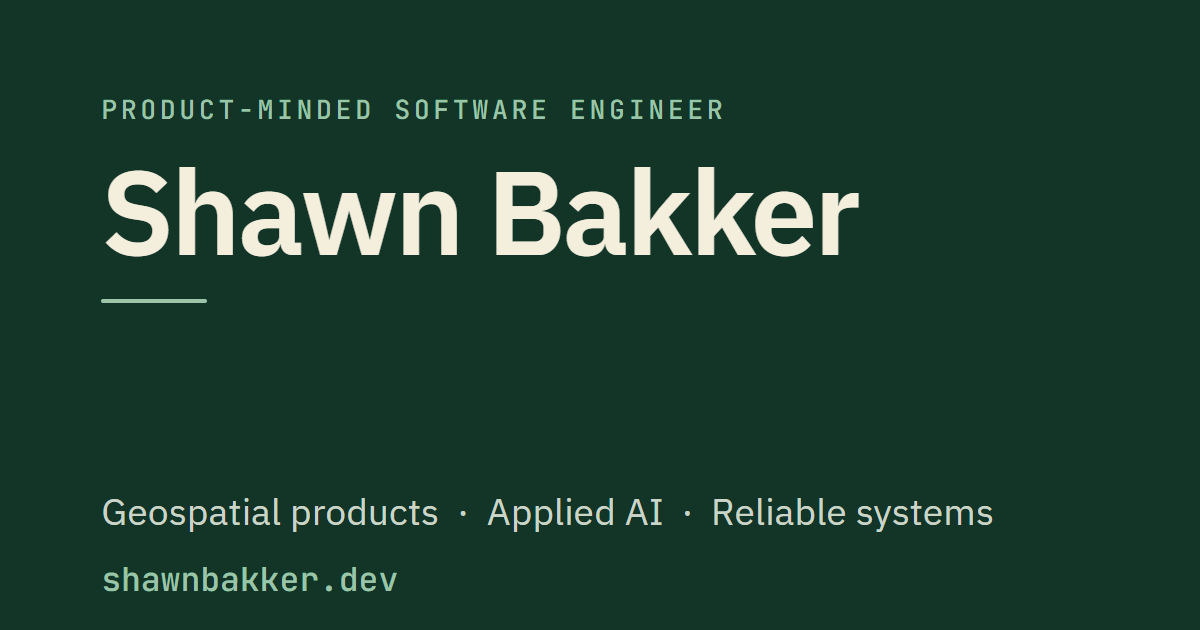
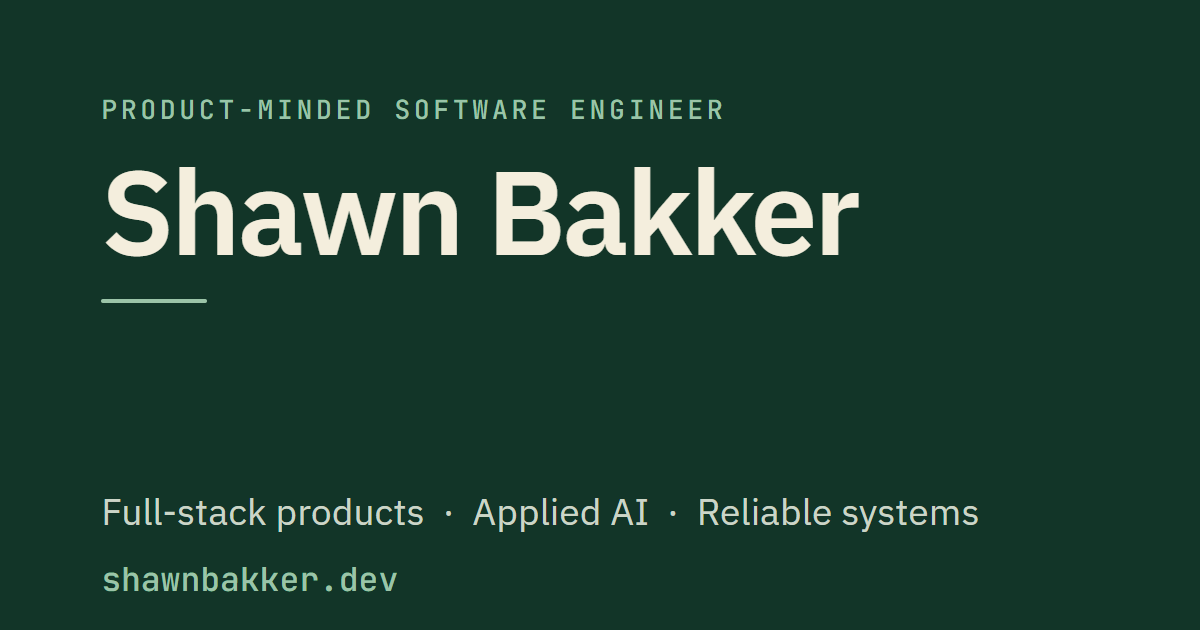
Thumbnail: generalize framing (drop "geospatial") (#2)
Keep the social share preview general to full-stack / SWE rather than
domain-specific. Regenerate the OG card tagline "Geospatial products ·
Applied AI · Reliable systems" -> "Full-stack products · Applied AI ·
Reliable systems", and match the meta + og:description copy. On-page body
copy describing the parcelscope project is left unchanged (accurate).

Changed region(s): [[0.0617, 0.7841, 0.555, 0.8444], [0.5858, 0.7841, 0.8325, 0.8444]]

diff --git a/index.html b/index.html
@@ -4,12 +4,12 @@
     <meta charset="UTF-8" />
     <meta name="viewport" content="width=device-width, initial-scale=1.0" />
     <title>Shawn Bakker | Software Engineer</title>
-    <meta name="description" content="Product-minded software engineer building geospatial products, applied AI systems, and reliable infrastructure. End-to-end ownership with reproducible evidence." />
+    <meta name="description" content="Product-minded software engineer building full-stack products, applied AI systems, and reliable infrastructure. End-to-end ownership with reproducible evidence." />
 
     <link rel="canonical" href="https://shawnbakker.dev/" />
     <meta property="og:type" content="website" />
     <meta property="og:title" content="Shawn Bakker | Software Engineer" />
-    <meta property="og:description" content="Product-minded software engineer building geospatial products, applied AI systems, and reliable infrastructure." />
+    <meta property="og:description" content="Product-minded software engineer building full-stack products, applied AI systems, and reliable infrastructure." />
     <meta property="og:url" content="https://shawnbakker.dev/" />
     <meta property="og:image" content="https://shawnbakker.dev/assets/social-card.png" />
     <meta name="twitter:card" content="summary_large_image" />
